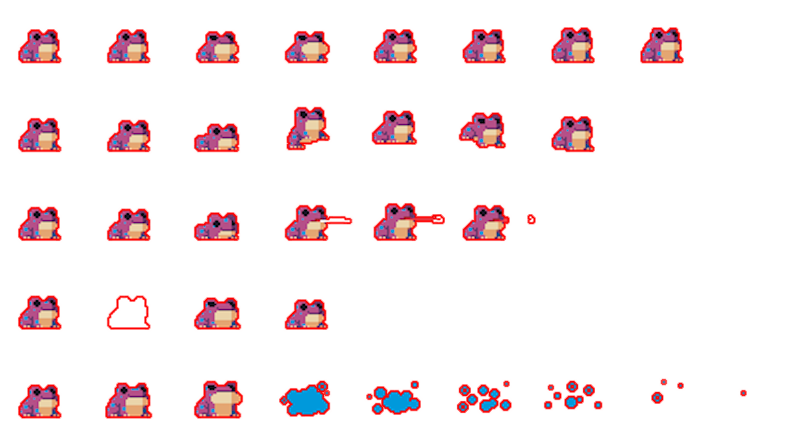
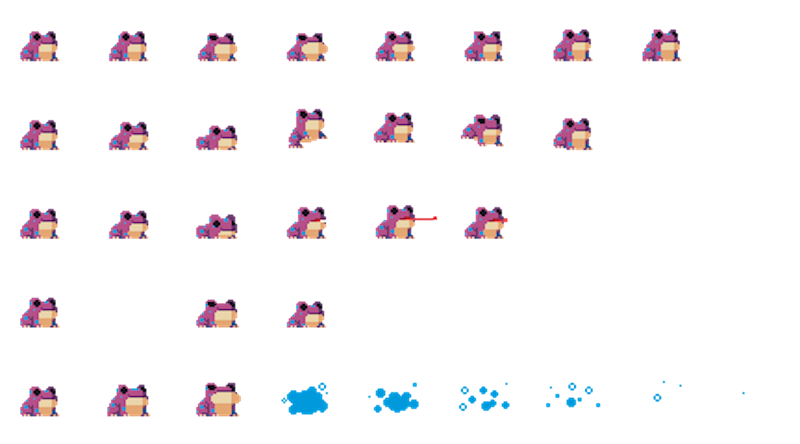
Added two different versions of sprites for enemies (friendly and not friendly)

diff --git a/source/core/src/main/com/csse3200/game/entities/factories/EnemyFactory.java b/source/core/src/main/com/csse3200/game/entities/factories/EnemyFactory.java
@@ -93,9 +93,16 @@ public class EnemyFactory {
     Entity frog = createBaseEnemy(target, EnemyType.FROG);
     BaseEntityConfig config = NPCConfigs.frog;
 
-    AnimationRenderComponent animator =
-            new AnimationRenderComponent(
-                    ServiceLocator.getResourceService().getAsset("images/frog.atlas", TextureAtlas.class));
+    TextureAtlas frogAtlas;
+    if (!FRIENDLY) {
+        frogAtlas = ServiceLocator.getResourceService().getAsset("images/enemy-frog.atlas", TextureAtlas.class);
+    } else {
+        frogAtlas = ServiceLocator.getResourceService().getAsset("images/frog.atlas", TextureAtlas.class);
+
+    }
+
+    AnimationRenderComponent animator = new AnimationRenderComponent(frogAtlas);
+
     animator.addAnimation("angry_float", 0.1f, Animation.PlayMode.LOOP);
     animator.addAnimation("float", 0.1f, Animation.PlayMode.LOOP);
 
@@ -120,9 +127,15 @@ public class EnemyFactory {
     Entity monkey = createBaseEnemy(target, EnemyType.MONKEY);
     BaseEntityConfig config = NPCConfigs.monkey;
 
-    AnimationRenderComponent animator =
-            new AnimationRenderComponent(
-                    ServiceLocator.getResourceService().getAsset("images/monkey.atlas", TextureAtlas.class));
+    TextureAtlas monkeyAtlas;
+    if (!FRIENDLY) {
+      monkeyAtlas = ServiceLocator.getResourceService().getAsset("images/enemy-monkey.atlas", TextureAtlas.class);
+    } else {
+      monkeyAtlas = ServiceLocator.getResourceService().getAsset("images/monkey.atlas", TextureAtlas.class);
+
+    }
+
+    AnimationRenderComponent animator = new AnimationRenderComponent(monkeyAtlas);
     animator.addAnimation("run_down", 0.1f, Animation.PlayMode.LOOP);
     animator.addAnimation("run_up", 0.1f, Animation.PlayMode.LOOP);
     animator.addAnimation("run_left", 0.1f, Animation.PlayMode.LOOP);

diff --git a/source/core/src/main/com/csse3200/game/areas/ForestGameArea.java b/source/core/src/main/com/csse3200/game/areas/ForestGameArea.java
@@ -72,8 +72,9 @@ public class ForestGameArea extends GameArea {
   };
   private static final String[] forestTextureAtlases = {
     "images/terrain_iso_grass.atlas", "images/chicken.atlas", "images/enemy-chicken.atlas", "images/frog.atlas",
-          "images/monkey.atlas", "images/Cow.atlas", "images/snake.atlas", "images/lion.atlas",
-          "images/eagle.atlas", "images/turtle.atlas", "images/final_boss_kangaroo.atlas"
+          "images/enemy-frog.atlas", "images/monkey.atlas", "images/enemy-monkey.atlas", "images/Cow.atlas",
+          "images/snake.atlas",  "images/lion.atlas", "images/eagle.atlas", "images/turtle.atlas",
+          "images/final_boss_kangaroo.atlas"
   };
   private static final String[] questSounds = {"sounds/QuestComplete.wav"};
   private static final String[] forestSounds = {"sounds/Impact4.ogg"};

diff --git a/source/core/src/test/com/csse3200/game/entities/factories/EnemyFactoryTest.java b/source/core/src/test/com/csse3200/game/entities/factories/EnemyFactoryTest.java
@@ -55,7 +55,9 @@ class EnemyFactoryTest {
             "images/chicken.atlas",
             "images/enemy-chicken.atlas",
             "images/monkey.atlas",
-            "images/frog.atlas"
+            "images/enemy-monkey.atlas",
+            "images/frog.atlas",
+            "images/enemy-frog.atlas"
     };
 
 
